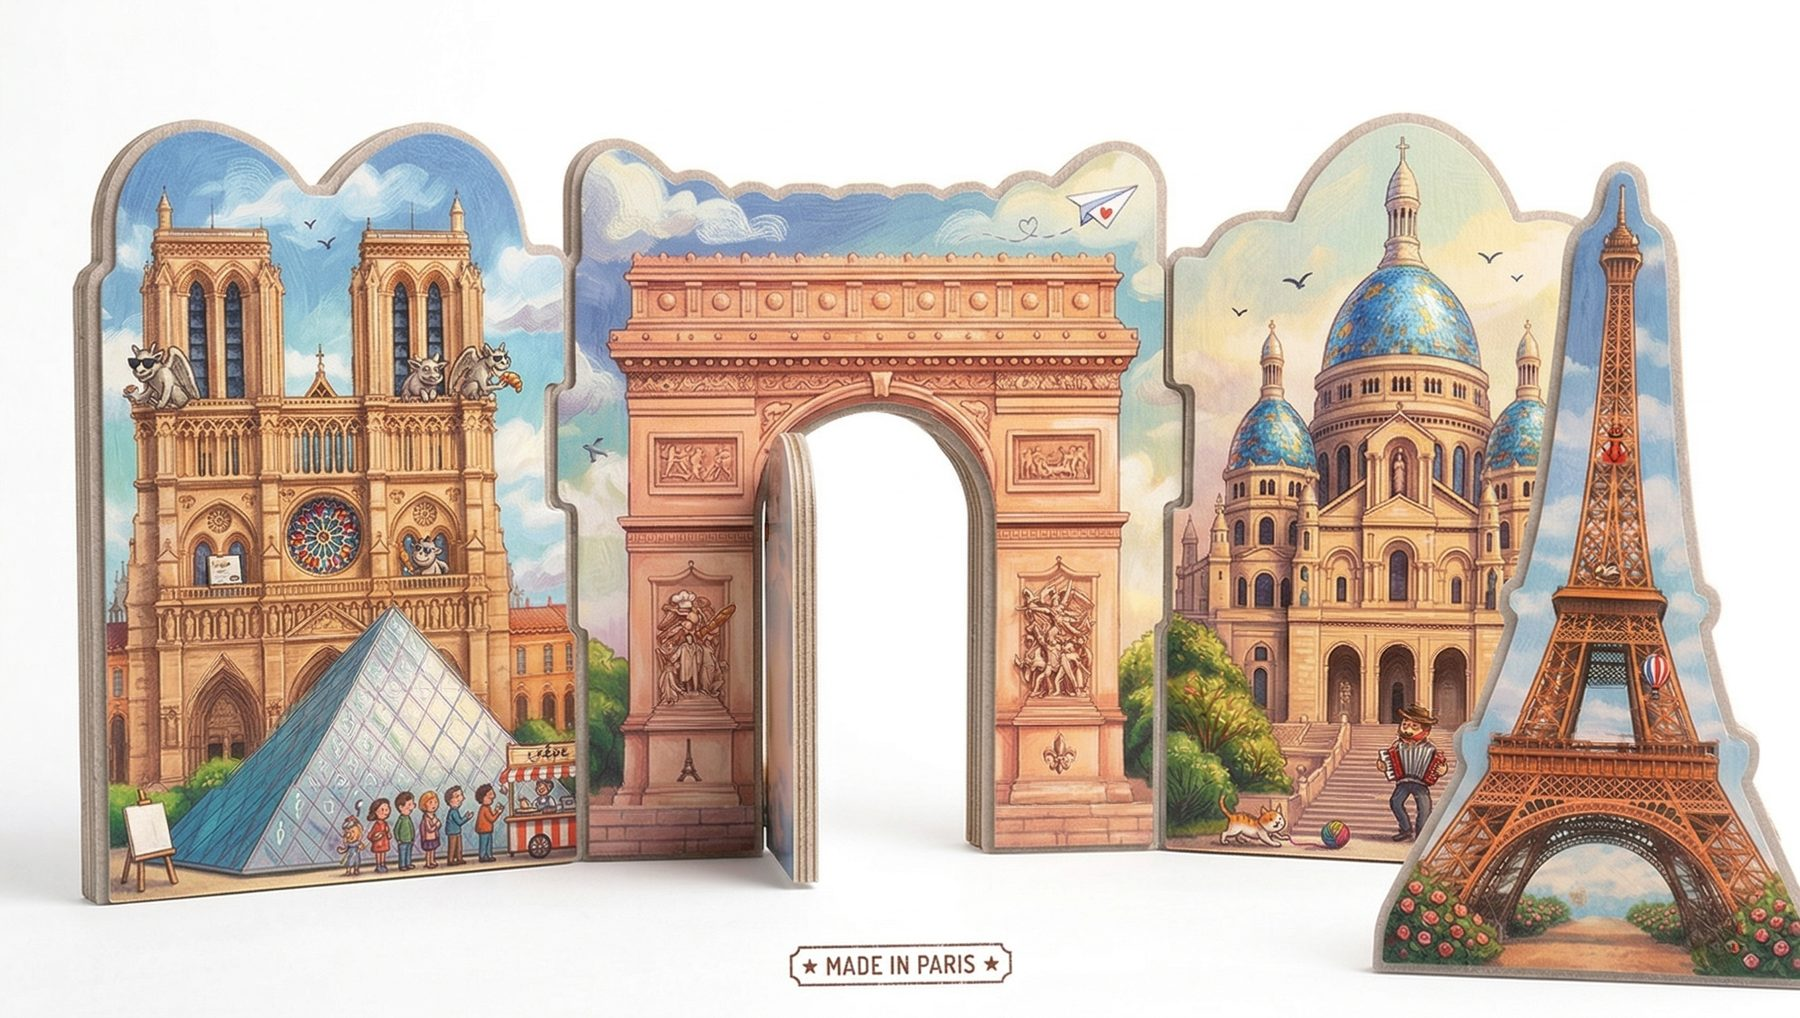
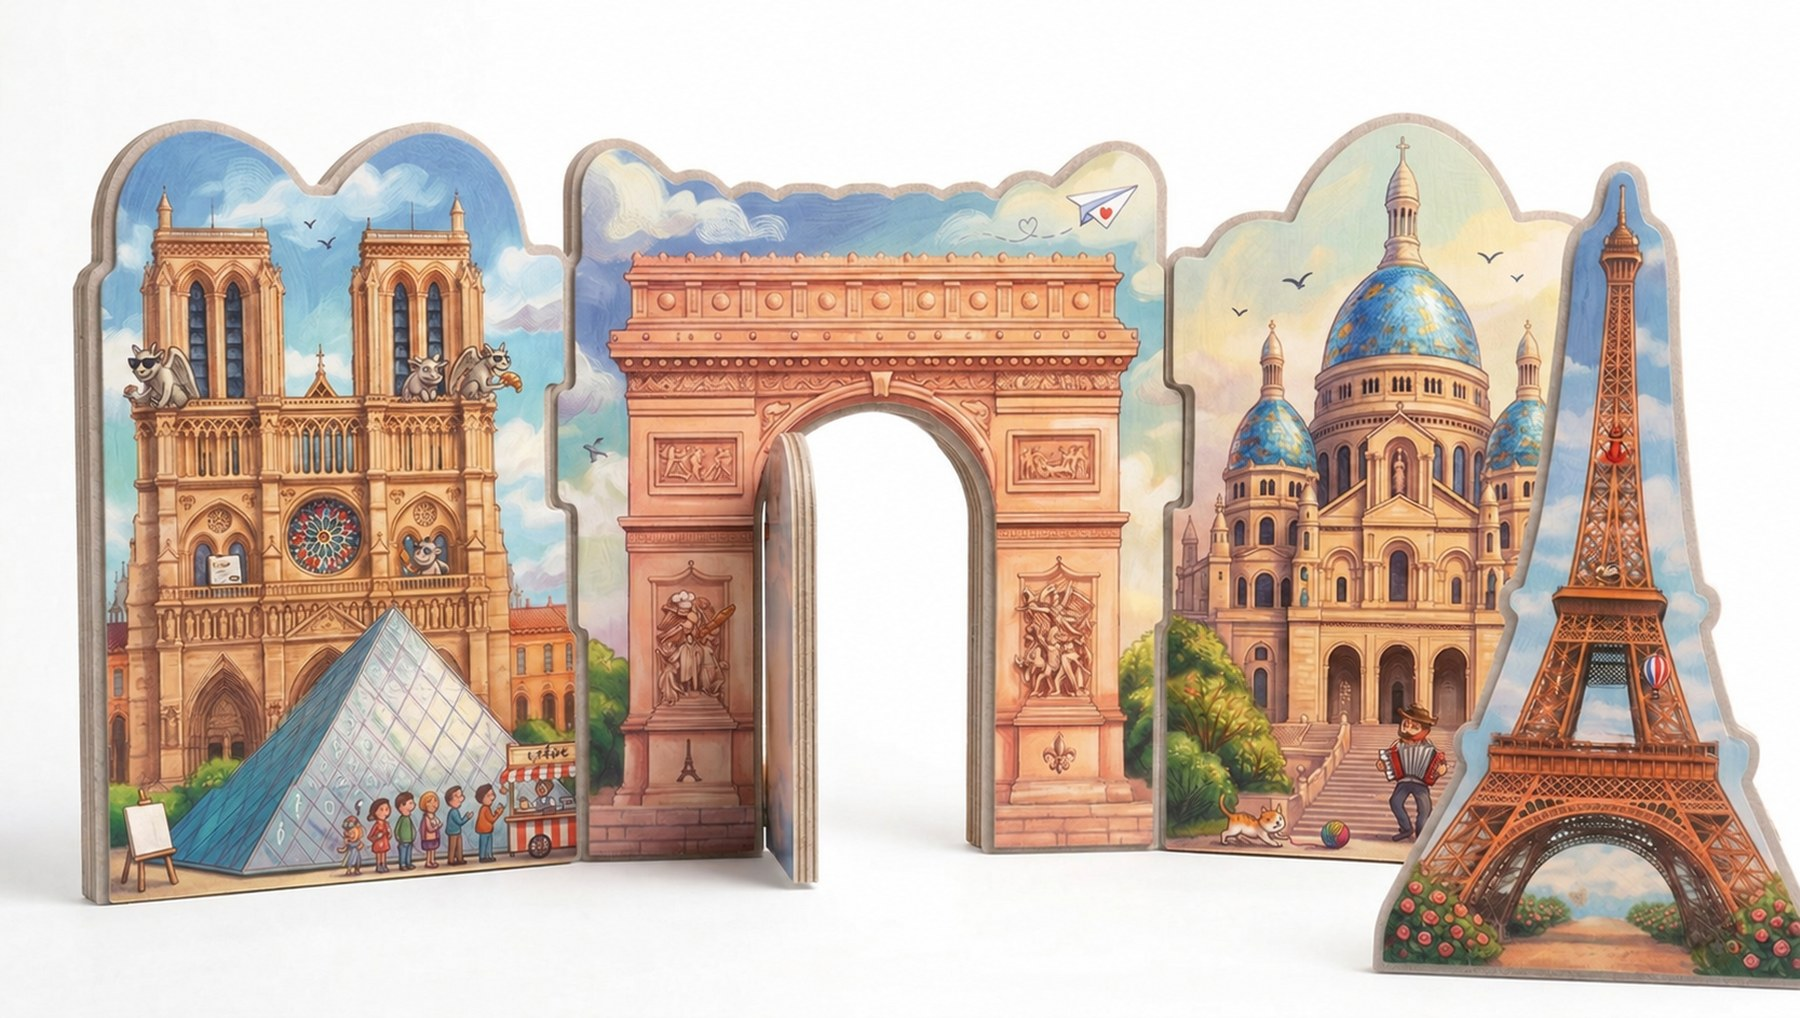
Catalogue round: hotel-suite photos (Police, Fire Station), Paris suite with studio model, five bedwrappers, shorter durability text, Paris v3 without stamp

diff --git a/src/data/catalog.ts b/src/data/catalog.ts
@@ -69,8 +69,8 @@ export const sections: Section[] = [
       design("standard", "reading", "Reading Corner", "Storybook retreat", "After a long day of travel, the young ones need a cosy moment to relax.", ["Studio", "", "In a room"], "From £1,250"),
       design("standard", "arabian", "Arabian Nights", "Luxe edition", "Shimmering palaces, starlit deserts and treasures untold. No lamp-rubbing required.", ["Front", "Angled", "In a room"], "From £1,350"),
       design("standard", "cafe", "Kids Cafe", "Sweet delights", "Every day is opening day at the sweetest spot in town.", ["Front", "Back", "In a hotel restaurant"], "From £1,250"),
-      design("standard", "police", "Police Station", "On patrol", "Blue lights, a patrol car and a lookout tower. Little officers keep the suite safe and sound.", ["With a cadet", "Studio", "On duty"]),
-      design("standard", "fire-station", "Fire Station", "To the rescue", "A red fire engine, a bell tower and big arched doors. Ready for the next call-out, siren optional.", ["Two firefighters", "Studio", "Wide"]),
+      design("standard", "police", "Police Station", "On patrol", "Blue lights, a patrol car and a lookout tower. Little officers keep the suite safe and sound.", ["With a cadet", "Studio", "In a hotel suite"]),
+      design("standard", "fire-station", "Fire Station", "To the rescue", "A red fire engine, a bell tower and big arched doors. Ready for the next call-out, siren optional.", ["Two firefighters", "Studio", "In a hotel suite"]),
       design("standard", "hospital", "Hospital", "Little doctors", "An emergency bay with its ambulance, a rooftop helipad and a park bench for recovering teddies.", ["Studio", "", "In a room"]),
     ],
   },
@@ -105,8 +105,13 @@ export const sections: Section[] = [
   {
     slug: "bedwrappers",
     name: "Bedwrappers",
+    subtitle: "Around every bed. Single and double sizes, panels 75 cm high.",
     items: [
-      design("bedwrappers", "marine", "Marine Life", "Twin beds", "Coral and clownfish for a twin room.", ["In a suite", "Twin beds", "Twin room"], "From £850"),
+      design("bedwrappers", "marine", "Marine Life", "Single bed", "Whales, turtles and coral.", ["In a suite", "", ""], "From £850"),
+      design("bedwrappers", "chinese-dragon", "Chinese Dragon", "Lunar New Year", "A red and gold dragon curls around the bed.", ["In a suite", "", ""]),
+      design("bedwrappers", "arabian-nights", "Arabian Nights", "Ramadan and Eid", "Domes, arches and lanterns around the bed.", ["In a suite", "", ""]),
+      design("bedwrappers", "alebrijes", "Alebrijes", "Mexican folk art", "Winged cats, jaguars and dragons in bright folk-art colours.", ["In a suite", "", ""]),
+      design("bedwrappers", "twin-room", "Twin room", "Meadow and autumn", "A lamb in a clover meadow and a fox in autumn leaves, one for each bed.", ["In a twin room", "", ""]),
     ],
   },
 ];

diff --git a/src/data/details.ts b/src/data/details.ts
@@ -25,7 +25,7 @@ export const details: { h: string; p: string[] }[] = [
   {
     h: "Durability & re-usability",
     p: [
-      "Screenery is designed for multiple uses, unlike materials such as cardboard or foam. The material does not wear and tear, nor does the colour or print fade over time. Screenery is weatherproof and waterproof and needs no special storage conditions; suitable for rooms as well as public and outdoor spaces. Used with due care, it should last for many years.",
+      "Screenery is designed for multiple uses, unlike materials such as cardboard or foam. The material does not wear and tear, nor does the colour or print fade over time. Screenery is weatherproof and waterproof.",
     ],
   },
 ];
